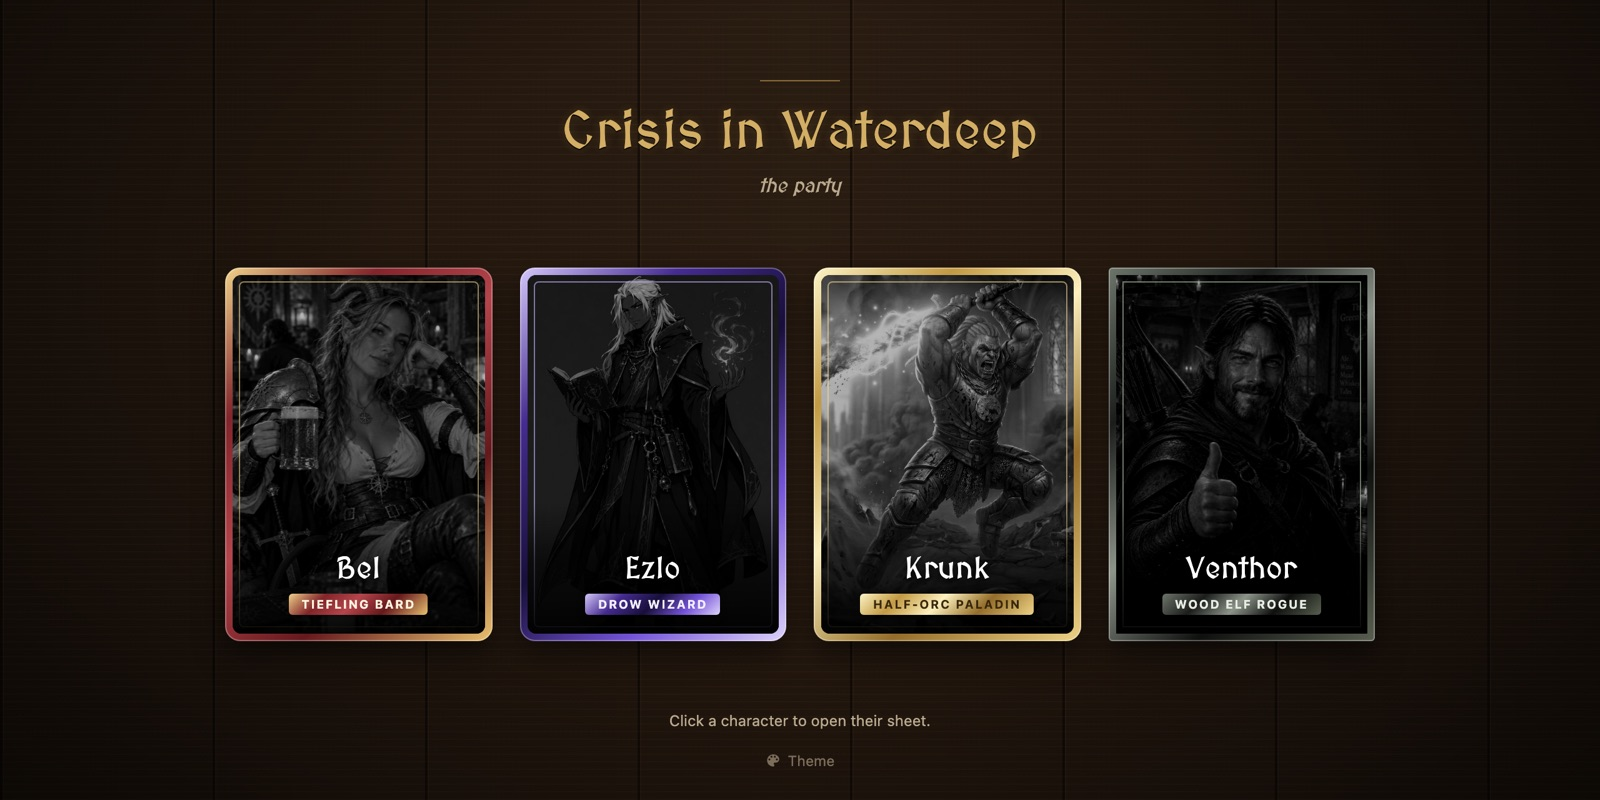
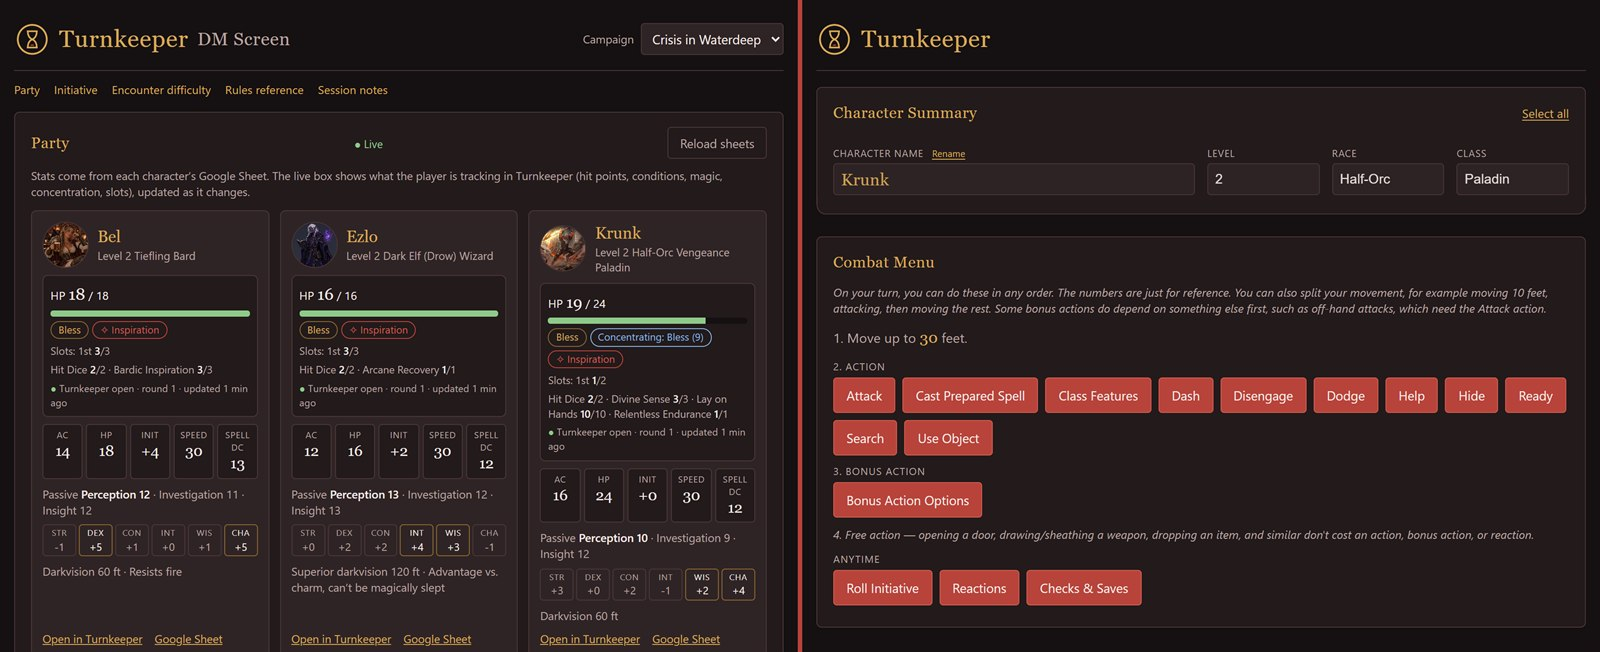
Show the DM Screen and Krunk's sheet in the Ember theme, and drop the "no server" wording

diff --git a/index.html b/index.html
@@ -163,12 +163,12 @@
 				<div class="projects">
 					<article class="card project featured">
 						<a class="shot" href="https://justinthuffman.github.io/turnkeeper/turnkeeper.html?sheet=https%3A%2F%2Fdocs.google.com%2Fspreadsheets%2Fd%2F1vIvEke6E12m7il5voB2n5rJAqwgJeWf_2BZYJSKpYgU%2Fedit%3Fgid%3D359784640%23gid%3D359784640&amp;name=Krunk" target="_blank" rel="noopener" tabindex="-1">
-							<img src="./assets/img/turnkeeper.jpg" width="1600" height="800" loading="lazy" alt="Turnkeeper's campaign hub: portrait cards for Bel the Tiefling Bard, Ezlo the Drow Wizard, Krunk the Half-Orc Paladin, and Venthor the Wood Elf Rogue">
+							<img src="./assets/img/turnkeeper.jpg" width="1600" height="652" loading="lazy" alt="Turnkeeper in its Ember theme: the DM Screen showing each party member's live hit points, spell slots and conditions, beside Krunk's character sheet and Combat Menu">
 						</a>
 						<div>
 							<span class="badge">Featured · 2026</span>
 							<h3>Turnkeeper</h3>
-							<p>I built Turnkeeper to help the beginners in my Dungeons &amp; Dragons group. It reads each player's stats from their Google Sheets character sheet, lays out everything they need at the table, and keeps track of their turn from start to end. It follows the 5e rules, so it knows what each character can do and hands them the dice roll commands to paste into our Discord game. It's a self-contained web app with no server, install, or login.</p>
+							<p>I built Turnkeeper to help the beginners in my Dungeons &amp; Dragons group. It reads each player's stats from their Google Sheets character sheet, lays out everything they need at the table, and keeps track of their turn from start to end. It follows the 5e rules, so it knows what each character can do and hands them the dice roll commands to paste into our Discord game. It runs as static web pages with nothing to install and no login, and a free Firebase database carries each player's live hit points and conditions to the DM Screen.</p>
 							<ul class="chips">
 								<li>JavaScript</li><li>HTML &amp; CSS</li><li>Google Sheets</li><li>Firebase</li><li>GitHub Pages</li>
 							</ul>
@@ -178,7 +178,7 @@
 							</div>
 						</div>
 						<ul class="feature-list">
-							<li>Imports a character straight from a shared Google Sheet with no API keys and no server</li>
+							<li>Imports a character straight from a shared Google Sheet with no API keys</li>
 							<li>A Combat Menu walks new players through their actions, bonus actions, and reactions, then gives them the Avrae roll command to paste</li>
 							<li>Tracks hit points, spell slots, Hit Dice, death saves, concentration, and conditions, and adds them to rolls automatically</li>
 							<li>Enforces spell limits from the Player's Handbook, including the wizard's spellbook</li>
